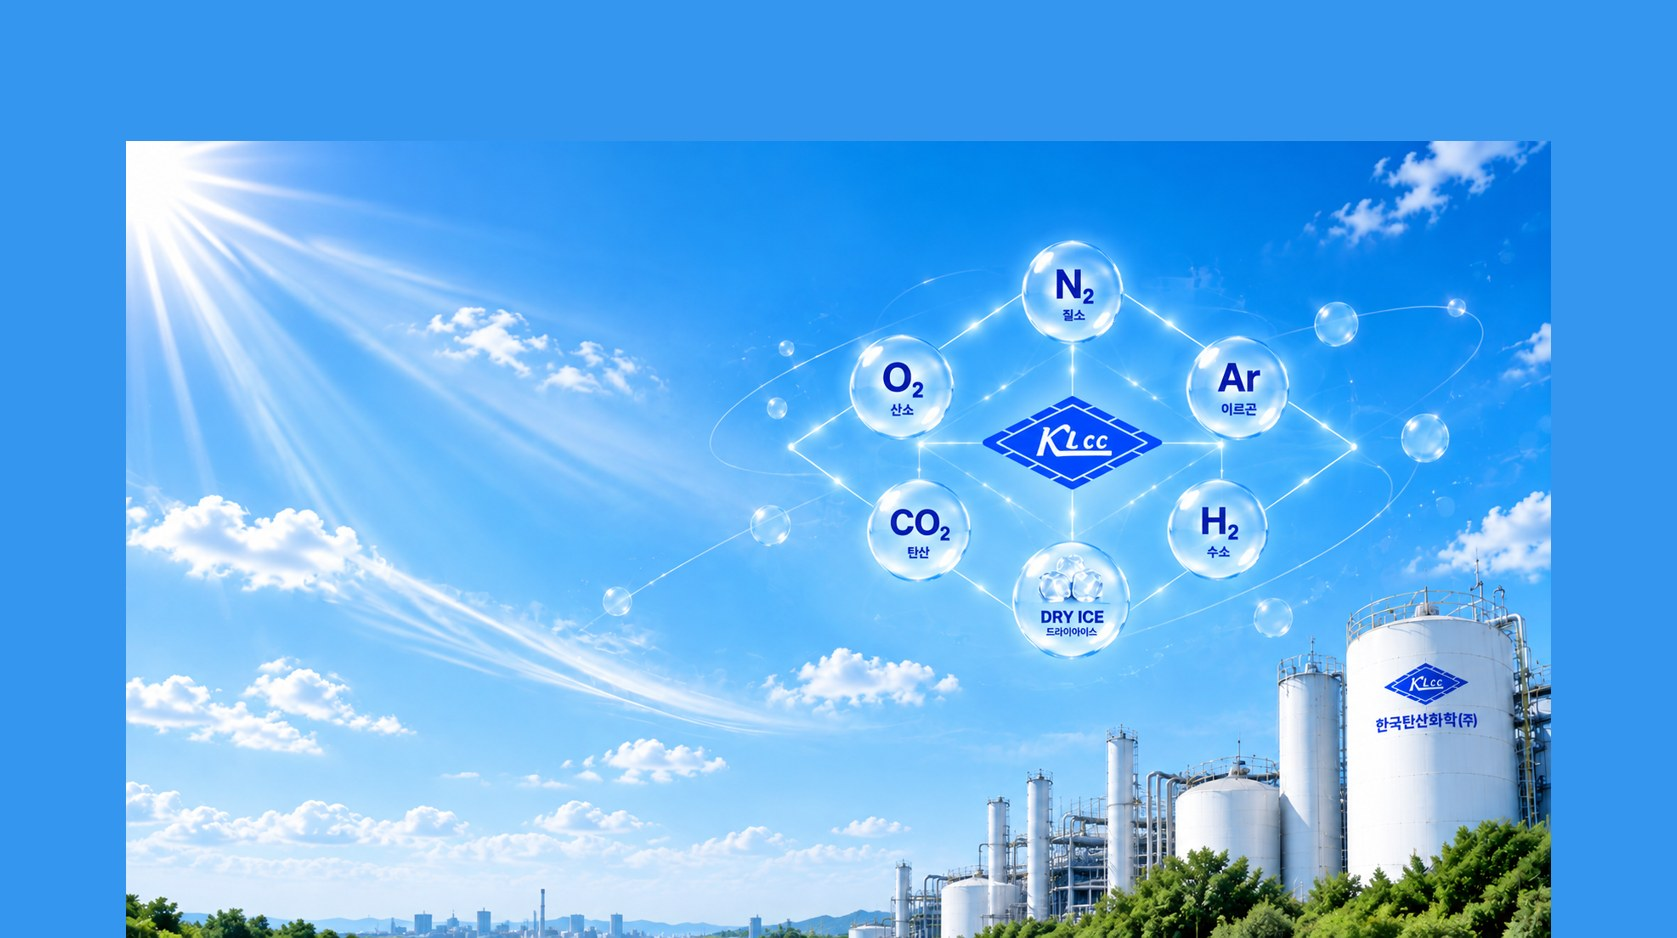
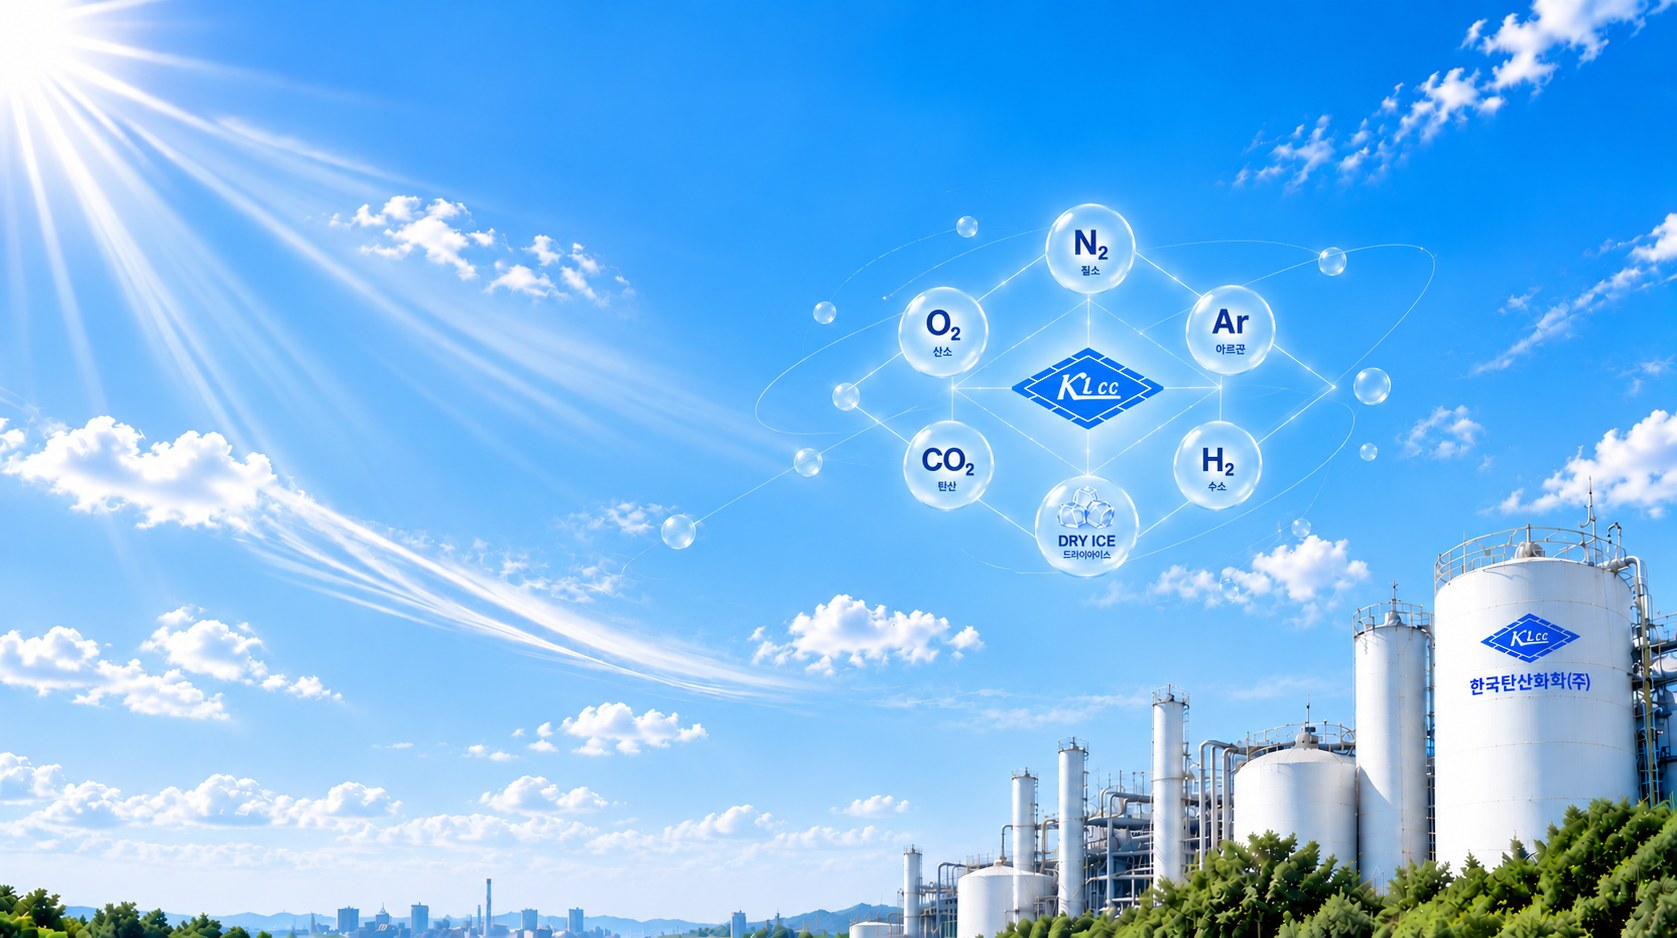
메인 히어로 두번째 슬라이드를 새 사진으로 대체(분자 다이어그램 적정 크기). hero-molecules.jpg ?v=20260913c

diff --git a/index.html b/index.html
@@ -70,7 +70,7 @@
     <section class="hero">
       <div class="hero__slides" aria-hidden="true">
         <div class="hero__slide is-active" style="background-image:url('assets/images/site/hero-main.jpg?v=20260801-7')"></div>
-        <div class="hero__slide" style="background-image:url('assets/images/site/hero-molecules.jpg?v=20260913b')"></div>
+        <div class="hero__slide" style="background-image:url('assets/images/site/hero-molecules.jpg?v=20260913c')"></div>
       </div>
       <div class="container">
         <span class="hero__kicker" data-i18n="hero.kicker">KOREA LIQUID CARBONIC CHEMICAL</span>
